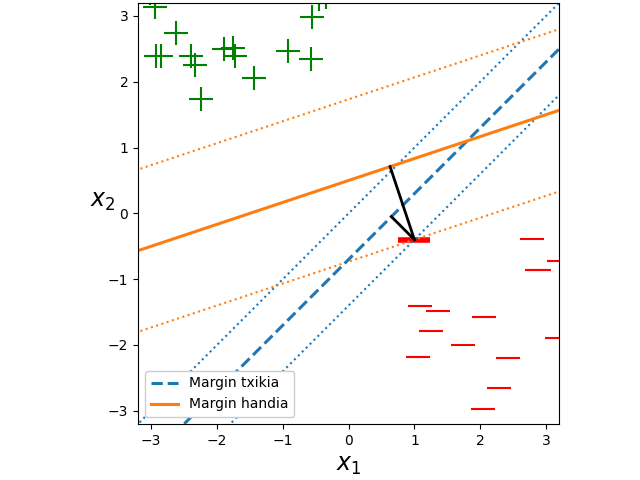
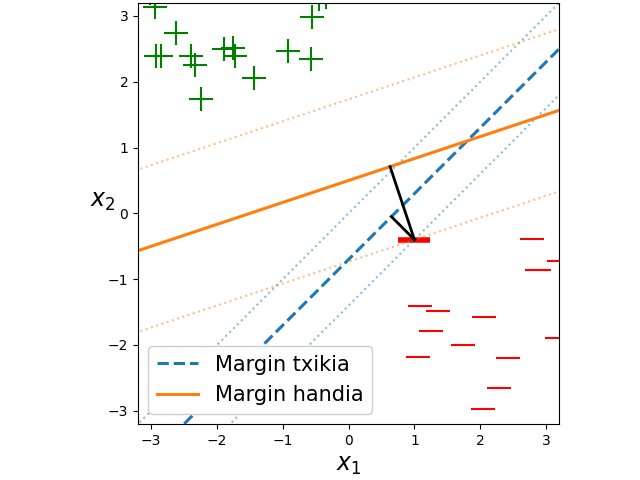
irudiak hobetu berriro

diff --git a/Grafikoak/2_margina_adibidea.py b/Grafikoak/2_margina_adibidea.py
@@ -25,10 +25,10 @@ y6 = 1.81999 + 1/3*(x-0.26)
 # Grafikoa sortu: 
 
 
-plt.plot(x, y3, label = 'Margin txikia', linestyle = "dotted", alpha = 1, c = "tab:blue")
-plt.plot(x, y4, label = 'Margin txikia', linestyle = "dotted", alpha = 1, c = "tab:blue")
-plt.plot(x, y5, label = 'Margin txikia', linestyle = "dotted", alpha = 1, c = "tab:orange")
-plt.plot(x, y6, label = 'Margin txikia', linestyle = "dotted", alpha = 1, c = "tab:orange")
+plt.plot(x, y3, label = 'Margin txikia', linestyle = "dotted", alpha = 0.5, c = "tab:blue")
+plt.plot(x, y4, label = 'Margin txikia', linestyle = "dotted", alpha = 0.5, c = "tab:blue")
+plt.plot(x, y5, label = 'Margin txikia', linestyle = "dotted", alpha = 0.5, c = "tab:orange")
+plt.plot(x, y6, label = 'Margin txikia', linestyle = "dotted", alpha = 0.5, c = "tab:orange")
 
 
 
@@ -66,7 +66,7 @@ plt.plot([1, 13/20], [-0.4, -0.05], color='black',linewidth = 2)
 plt.plot([1, 63/100], [-0.4, 71/100], color='black',linewidth = 2)
 plt.scatter([1],[-0.4], color='red', marker='_', s = 500, linewidth = 4)
 
-l =plt.legend(handles = [hiper_1, hiper_2] ,fontsize = 10, loc = 'lower left')
+l =plt.legend(handles = [hiper_1, hiper_2] ,fontsize = 15, loc = 'lower left')
 l.get_frame().set_alpha(1) 
 
 plt.show()

diff --git a/Grafikoak/1_espazio_zatitzaile_adibidea.py b/Grafikoak/1_espazio_zatitzaile_adibidea.py
@@ -25,11 +25,11 @@ plt.gca().set_aspect('equal', adjustable='box')
 plt.scatter([2.3, -0.4, -1.4,0.6,1.5], [1.2, -2.3,-1.2,-0.4,-1.5], color='red', marker='_', s = 300)
 plt.scatter([-1.7, -0.4, 0.8,-2.5,-2.6, -1.4], [0.7, 1.4, 2.6,1.4,-0.5, 2.7], color='green', marker='+', s = 300)
 plt.scatter([1],[1], color='red', marker='_', s = 500, linewidth = 4)
-plt.text(1.1,0.7, r'$(1,1)$', color='black', fontsize=12)
+plt.text(0.8,0.5, r'$(1,1)$', color='black', fontsize=20)
 
 # Bektorea gehitu
 q = plt.quiver(0,0,-1,1,angles = 'xy',scale_units = 'xy', scale = 1, color = 'black')
-plt.text(-1.3,1.1, r'$w$', color='black', fontsize=12)
+plt.text(-1.3,1.1, r'$w$', color='black', fontsize=20)
 
 # l =plt.legend(fontsize = 15, loc = 'upper left')
 # l.get_frame().set_alpha(1) 
